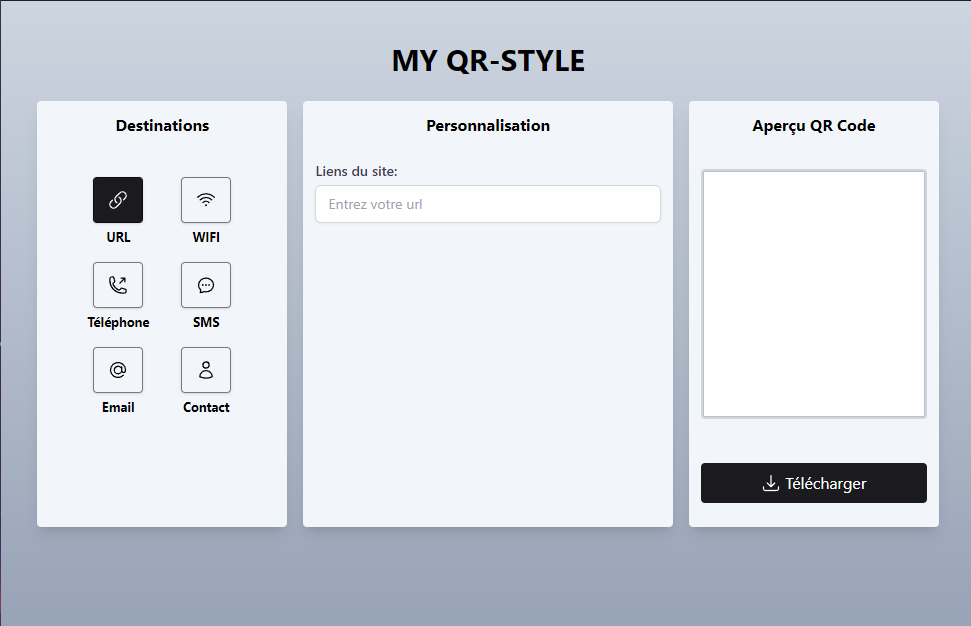
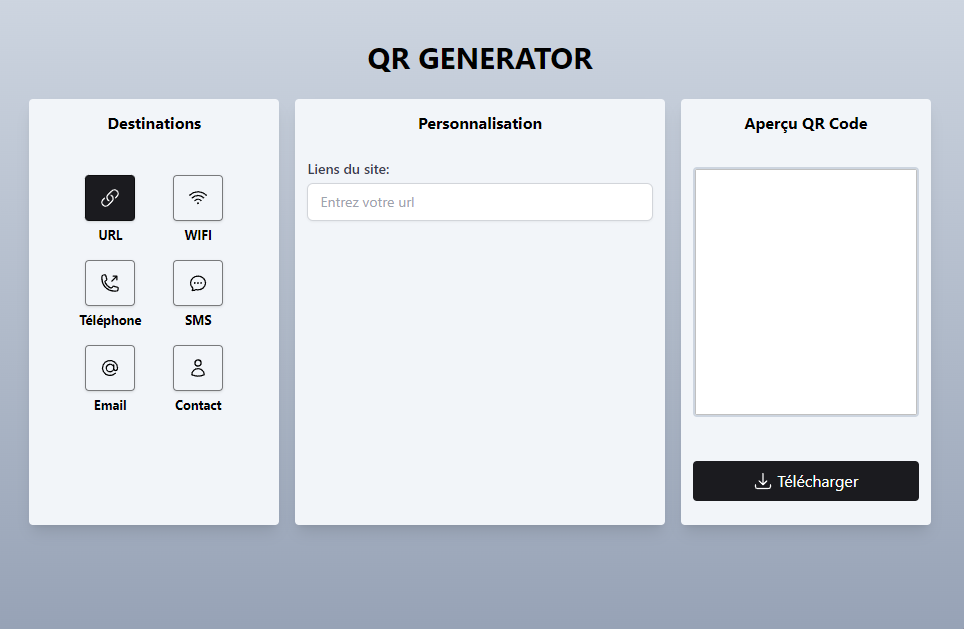
add screen update title

Changed region(s): [[0.0311, 0.1518, 0.9647, 0.8498], [0.1867, 0.2732, 0.249, 0.6677], [0.3734, 0.0607, 0.6224, 0.1214]]

diff --git a/src/renderer/src/pages/Editor/index.tsx b/src/renderer/src/pages/Editor/index.tsx
@@ -7,7 +7,7 @@ const Editor = (): React.JSX.Element => {
   return (
     <>
       <div className="h-[100px] pt-10 text-center">
-        <h1 className="text-3xl font-bold">MY QR-STYLE</h1>
+        <h1 className="text-3xl font-bold">QR GENERATOR</h1>
       </div>
       <div className="flex  gap-4 min-h-48">
         <DestinationCard />

diff --git a/src/renderer/index.html b/src/renderer/index.html
@@ -2,7 +2,7 @@
 <html>
   <head>
     <meta charset="UTF-8" />
-    <title>Electron</title>
+    <title>QR Generator</title>
     <!-- https://developer.mozilla.org/en-US/docs/Web/HTTP/CSP -->
     <meta
       http-equiv="Content-Security-Policy"

diff --git a/README.md b/README.md
@@ -37,3 +37,4 @@ $ npm run build:linux
 
 ![Capture](resources/screen-url.png)
 ![Capture](resources/screen-wifi.png)
+![Capture](resources/screen-vcard.png)
